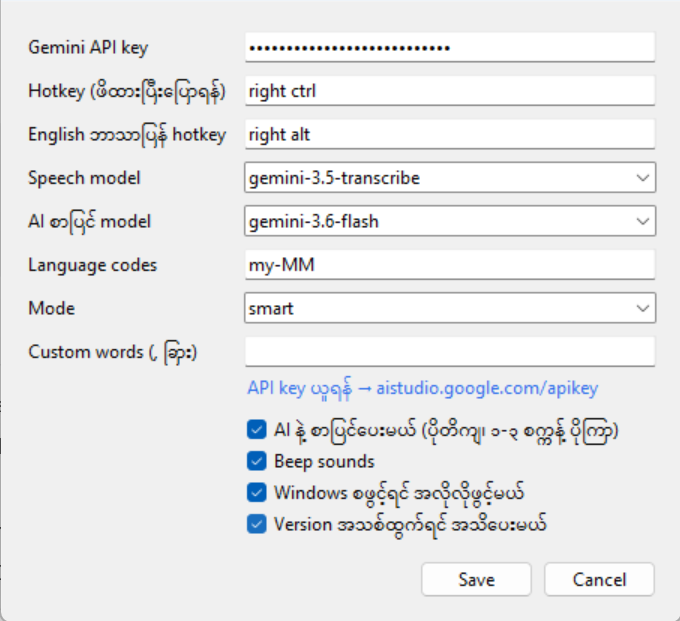
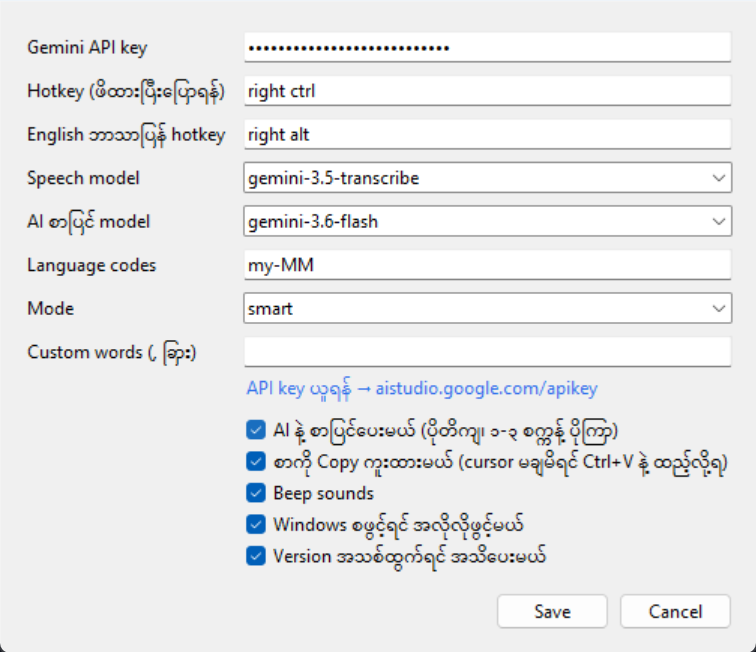
v1.2.0: keep the transcript on the clipboard
If the cursor wasn't in a text box when you spoke, the text used to be
lost because the old clipboard was restored after pasting. Now the
transcript stays on the clipboard and the pill says so, so Ctrl+V works.
Can be turned off in Settings. Guide, README and screenshots updated.

diff --git a/myanmar_flow.py b/myanmar_flow.py
@@ -34,7 +34,7 @@ import sounddevice as sd
 from PIL import Image, ImageDraw, ImageFilter, ImageFont, features
 
 APP_NAME = "Myanmar Flow"
-APP_VERSION = "1.1.0"
+APP_VERSION = "1.2.0"
 REPO_URL = "https://github.com/ThecrashO/myanmar-flow"
 DATA_DIR = Path(os.environ.get("APPDATA", Path.home())) / "MyanmarFlow"
 DATA_DIR.mkdir(parents=True, exist_ok=True)
@@ -78,6 +78,9 @@ DEFAULT_CONFIG = {
     "polish": True,
     "text_model": "gemini-3.6-flash",
     "check_updates": True,
+    # Leave the text on the clipboard after pasting, so Ctrl+V still works if the
+    # cursor wasn't in a text box.
+    "keep_in_clipboard": True,
     # Used only by general models (generateContent), e.g. gemini-3.6-flash.
     "prompt": (
         "Transcribe this audio. The speaker mainly speaks Burmese (Myanmar), "
@@ -261,17 +264,20 @@ def check_api_key(api_key):
     return friendly_error(RuntimeError(f"Gemini API error {resp.status_code}: {resp.text[:300]}"))
 
 
-def paste_text(text):
-    """Paste via the clipboard (reliable for Myanmar script), then restore the old clipboard."""
-    try:
-        previous = pyperclip.paste()
-    except Exception:
-        previous = None
+def paste_text(text, keep=True):
+    """Paste via the clipboard (reliable for Myanmar script). With keep=False the old
+    clipboard is restored afterwards; otherwise the text stays there for Ctrl+V."""
+    previous = None
+    if not keep:
+        try:
+            previous = pyperclip.paste()
+        except Exception:
+            pass
     pyperclip.copy(text)
     time.sleep(0.05)
     keyboard.send("ctrl+v")
-    time.sleep(0.3)
     if previous is not None:
+        time.sleep(0.3)
         pyperclip.copy(previous)
 
 
@@ -474,7 +480,8 @@ class Indicator:
         elif state == "transcribing":
             self.mode, self.started = "transcribing", now
         elif state == "done":
-            self.mode, self.started, self.hide_at = "done", now, now + 0.7
+            self.mode, self.started, self.text = "done", now, text or ""
+            self.hide_at = now + (2.2 if text else 0.7)
         elif text:
             self.mode, self.text, self.hide_at = "error", text, now + 3.5
         else:
@@ -533,7 +540,7 @@ class Indicator:
         return self.fonts[key]
 
     def width(self, k):
-        if self.mode == "error":
+        if self.mode == "error" or (self.mode == "done" and self.text):
             text_w = self.font("mmrtext.ttf", 13, k).getlength(self.text) / k if HAS_RAQM else 0
             return int(52 + text_w + 18)
         return 204
@@ -595,8 +602,12 @@ class Indicator:
             d.ellipse((at(20 - 8), cy - 8 * k, at(20 + 8), cy + 8 * k), fill=GREEN + (255,))
             d.line([(at(16), cy), (at(19), cy + 3 * k), (at(24.5), cy - 3.5 * k)],
                    fill=WHITE + (255,), width=max(1, int(2.2 * k)), joint="curve")
-            fade = max(0.0, 1 - t / 0.3)
-            bars([3 + 4 * fade] * BARS, mix(DIM, PILL_BG, 0.7))
+            if self.text:
+                if HAS_RAQM:
+                    d.text((at(38), cy), self.text, font=self.font("mmrtext.ttf", 13, k), fill=WHITE + (255,), anchor="lm")
+            else:
+                fade = max(0.0, 1 - t / 0.3)
+                bars([3 + 4 * fade] * BARS, mix(DIM, PILL_BG, 0.7))
         elif self.mode == "error":
             d.ellipse((at(20 - 8), cy - 8 * k, at(20 + 8), cy + 8 * k), fill=RED + (255,))
             d.text((at(20), cy), "!", font=self.font("segoeuib.ttf", 12, k), fill=WHITE + (255,), anchor="mm")
@@ -666,6 +677,7 @@ class SettingsWindow:
         self.sounds = tk.BooleanVar(value=cfg["sounds"])
         self.polish = tk.BooleanVar(value=cfg["polish"])
         self.check_updates = tk.BooleanVar(value=cfg["check_updates"])
+        self.keep_clip = tk.BooleanVar(value=cfg["keep_in_clipboard"])
         self.autostart = tk.BooleanVar(value=autostart_enabled())
 
         rows = [
@@ -690,6 +702,7 @@ class SettingsWindow:
         link.bind("<Button-1>", lambda e: webbrowser.open("https://aistudio.google.com/apikey"))
         checks = [
             ("AI နဲ့ စာပြင်ပေးမယ် (ပိုတိကျ၊ ၁-၃ စက္ကန့် ပိုကြာ)", self.polish),
+            ("စာကို Copy ကူးထားမယ် (cursor မချမိရင် Ctrl+V နဲ့ ထည့်လို့ရ)", self.keep_clip),
             ("Beep sounds", self.sounds),
             ("Windows စဖွင့်ရင် အလိုလိုဖွင့်မယ်", self.autostart),
             ("Version အသစ်ထွက်ရင် အသိပေးမယ်", self.check_updates),
@@ -720,6 +733,7 @@ class SettingsWindow:
         cfg["sounds"] = self.sounds.get()
         cfg["polish"] = self.polish.get()
         cfg["check_updates"] = self.check_updates.get()
+        cfg["keep_in_clipboard"] = self.keep_clip.get()
         for key in filter(None, (cfg["hotkey"], cfg["translate_hotkey"])):
             try:
                 keyboard.key_to_scan_codes(key)
@@ -1123,11 +1137,13 @@ class App:
         if text:
             # Never log the text itself: it can be private.
             log.info("Typed %d characters (%s)", len(text), mode)
-            paste_text(text)
+            paste_text(text, keep=self.cfg["keep_in_clipboard"])
         if not self.enabled:
             self.set_state("off")
         elif note:
             self.set_state("idle", note)
+        elif text and self.cfg["keep_in_clipboard"]:
+            self.set_state("done", "Copy ကူးထားပြီး — Ctrl+V နဲ့လည်း ထည့်လို့ရ")
         else:
             self.set_state("done" if text else "idle")
 
